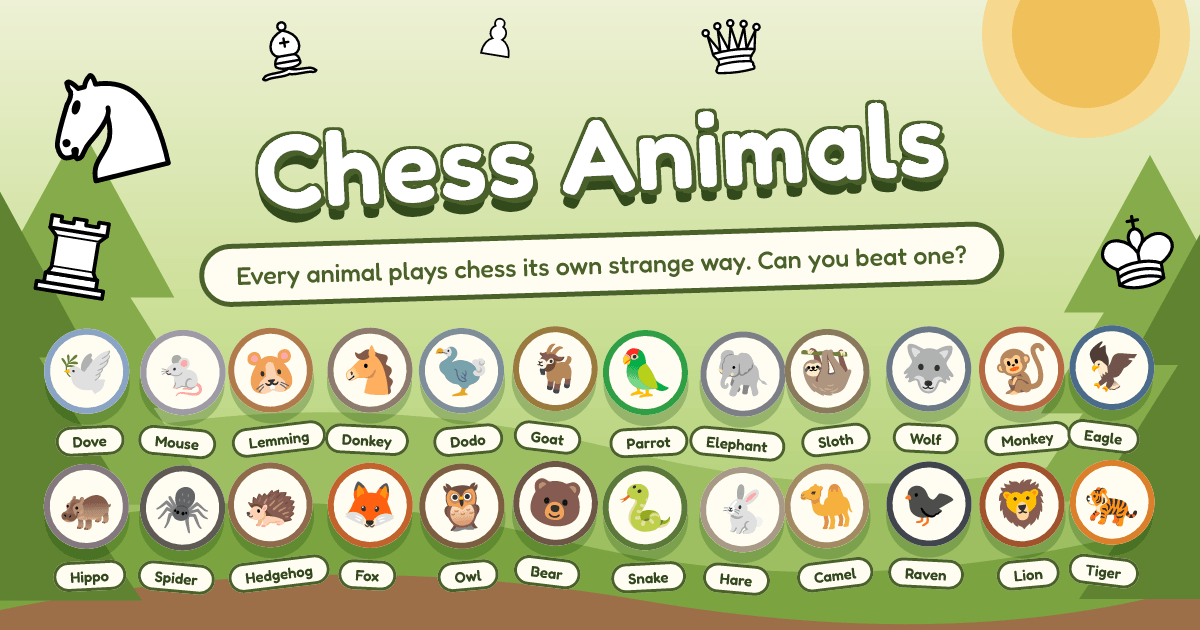
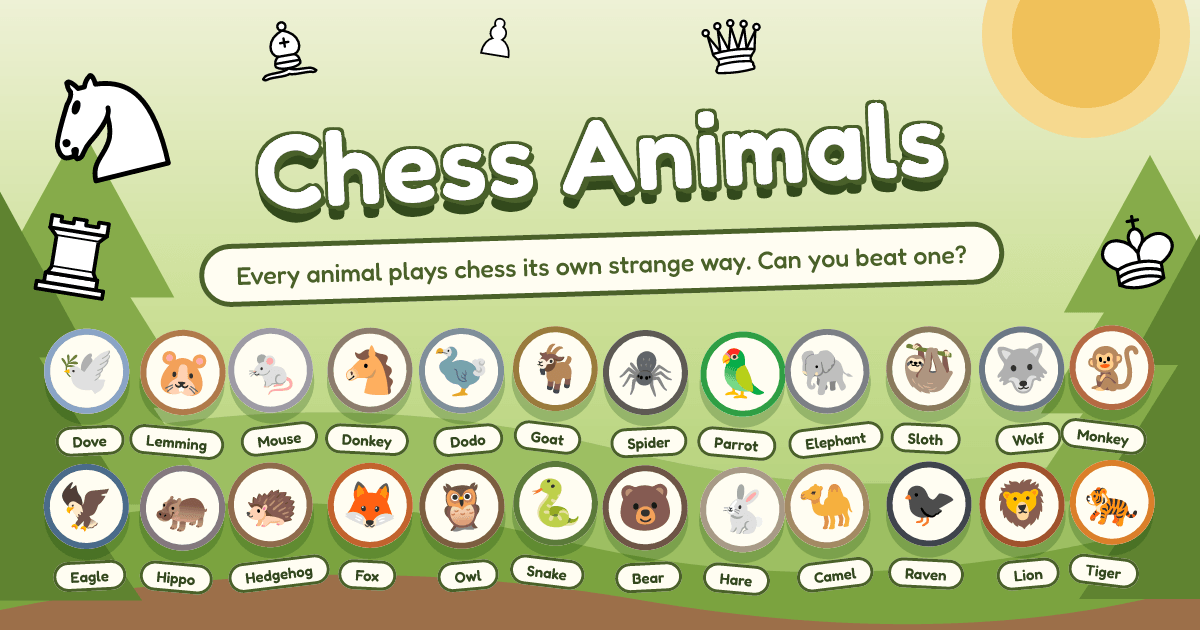
bots: drop the Spider to depth 1

Changed region(s): [[0.4008, 0.5127, 0.9867, 0.9349], [0.0308, 0.5127, 0.2775, 0.8746], [0.0617, 0.9048, 0.185, 0.9349]]

diff --git a/src/modules/bots/roster/index.ts b/src/modules/bots/roster/index.ts
@@ -48,11 +48,12 @@ import { WOLF } from "./wolf";
 //
 // The one-idea animals are a tour of the registry: the Fox never leaves a piece catchable, the
 // Lemming reads the same `offeredMaterial` with the sign flipped and hands everything over, the
-// Spider gives every piece the most squares it can reach, the Hippo holds the centre, the Eagle
-// watches it from a distance and lands just below the Hippo, the Hedgehog grabs everything and
-// hangs nothing, the Wolf charges the whole army at the enemy king, the Sloth pulls it all home,
-// the Elephant keeps to its own colour, the Parrot mirrors the board, the Goat chases checks and
-// captures, the Dove refuses to fight at all, and the Dodo runs its king at yours.
+// Hippo holds the centre, the Eagle watches it from a distance and lands just below the Hippo,
+// the Hedgehog grabs everything and hangs nothing, the Wolf charges the whole army at the enemy
+// king, the Sloth pulls it all home, the Elephant keeps to its own colour, the Parrot mirrors the
+// board, the Spider gives every piece the most squares it can reach — at depth 1, a ply short of
+// the rest, which is what drops it below the Parrot — the Goat chases checks and captures, the
+// Dove refuses to fight at all, and the Dodo runs its king at yours.
 //
 // The depth-3 animals without quiescence sit above the plain Owl: the Snake on one weight
 // (`opponentMobility`), the Bear (`centralization` + `space`, with a little `castled`) and the
@@ -76,6 +77,7 @@ export const ROSTER: Animal[] = [
 	DONKEY,
 	DODO,
 	GOAT,
+	SPIDER,
 	PARROT,
 	ELEPHANT,
 	SLOTH,
@@ -83,7 +85,6 @@ export const ROSTER: Animal[] = [
 	MONKEY,
 	EAGLE,
 	HIPPO,
-	SPIDER,
 	HEDGEHOG,
 	FOX,
 	OWL,

diff --git a/src/modules/bots/roster/spider.ts b/src/modules/bots/roster/spider.ts
@@ -5,15 +5,19 @@ import type { Animal } from "./types";
 // Spider to develop onto open lines, keep its pieces untangled and deny the same to the
 // opponent, all without ever declining a real capture the material base wants.
 //
-// On `material` at 10 a square of activity is worth a tenth of a pawn: the arena rates the whole
-// 6–15 range flat and above the Hedgehog, so 10 is the round middle of a plateau, not a peak.
-// Depth 2. The Tiger carries the same weight on a deeper search.
+// On `material` at 10 a square of activity is worth a tenth of a pawn: the arena rated the whole
+// 6–15 range flat, so 10 is the round middle of a plateau, not a peak. The Tiger carries the same
+// weight on a deeper search.
+//
+// Depth 1: a greedy one-move look, the only material animal that never sees a reply. At depth 2
+// it sat in a knot with the Hippo and the Hedgehog that no weight untied; a ply down it fills the
+// hole between the Goat and the Parrot instead — the one-idea animals' floor.
 export const SPIDER: Animal = {
 	emoji: "🕷",
 	tint: "#5f5a54",
 	definition: {
 		id: "spider",
-		search: { depth: 2 },
+		search: { depth: 1 },
 		base: "material",
 		weights: { mobility: 10 },
 	},
